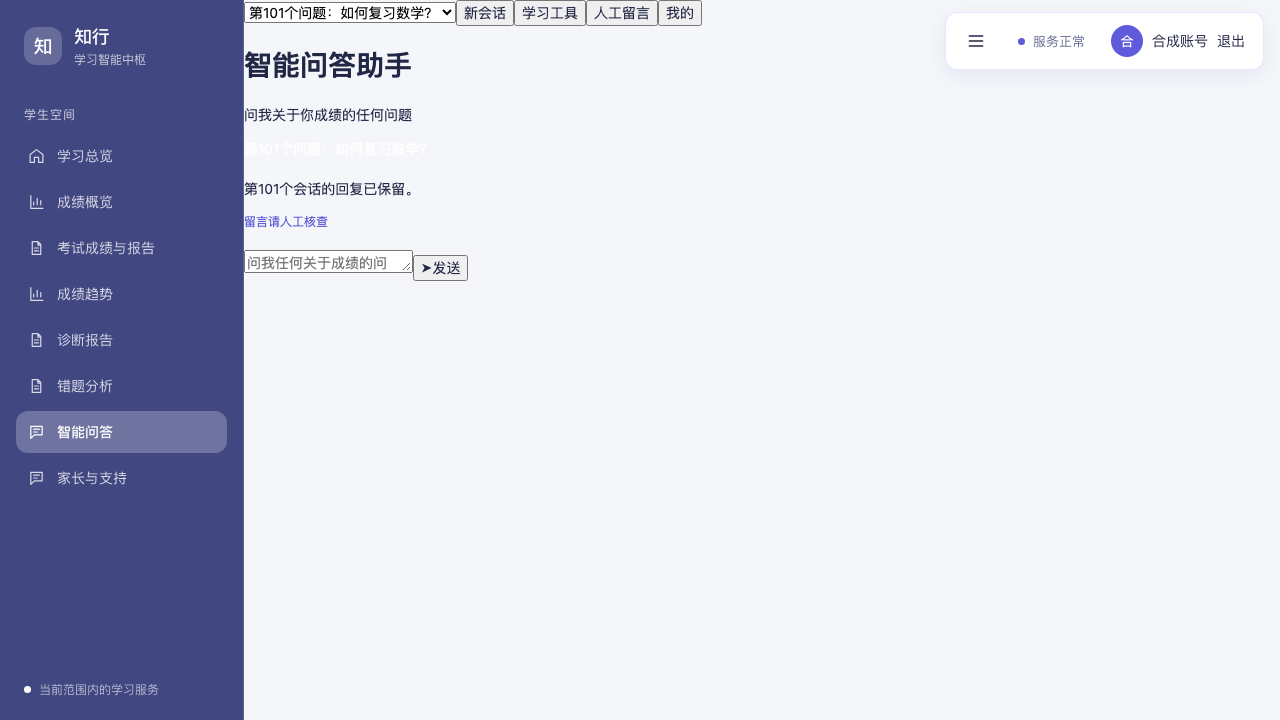
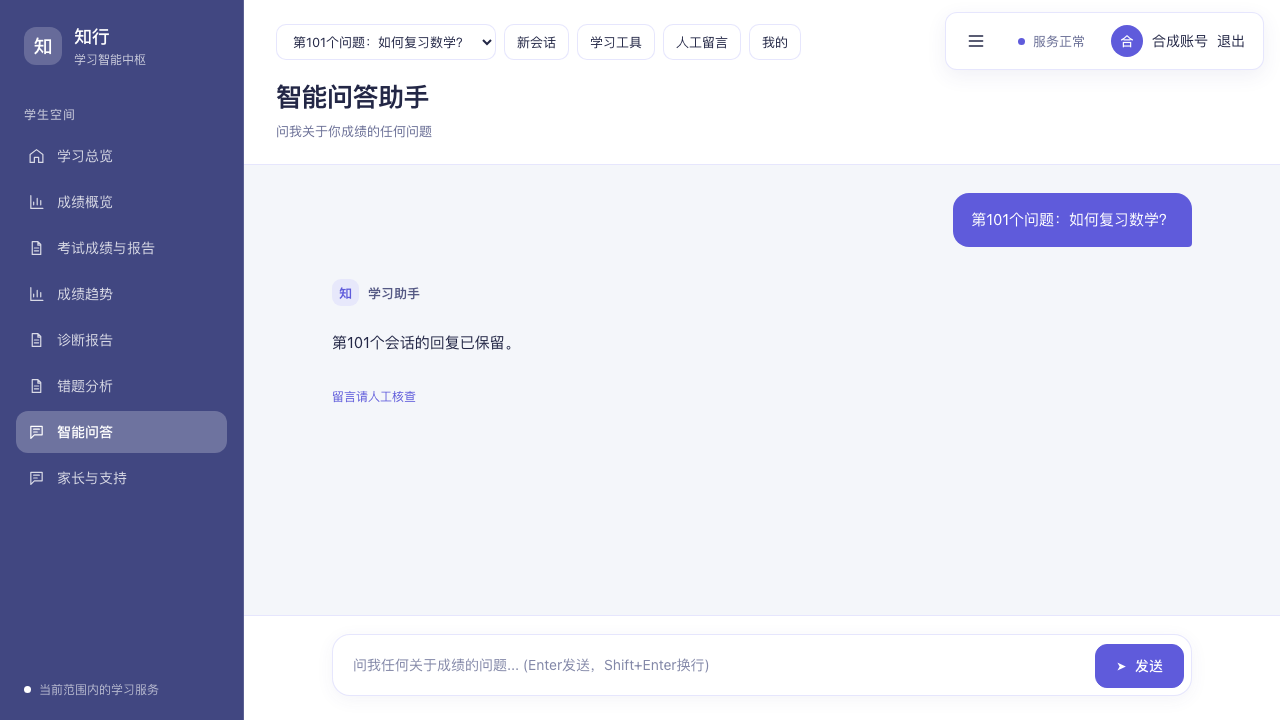
fix(web): ship an independent chat theme and verify production layouts

diff --git a/tests/ui/workflow-gaps.spec.ts b/tests/ui/workflow-gaps.spec.ts
@@ -28,14 +28,17 @@ test('the 101st conversation remains visible after state refresh and page reload
   await page.goto('/chat')
   const frame = page.frameLocator('iframe[title="智能问答助手"]')
   await expect(frame.getByLabel('选择会话').locator('option')).toHaveCount(101)
+  await expect(frame.locator('.chat-container')).toHaveCSS('display', 'flex')
   await frame.getByLabel('输入问题').fill('第101个问题：如何复习数学？')
   await frame.getByLabel('发送问题').click()
   await expect(frame.getByText('第101个会话的回复已保留。')).toBeVisible()
   await expect(frame.getByLabel('选择会话').locator('option').nth(1)).toContainText('第101个问题')
   await page.reload()
+  await expect(frame.getByLabel('选择会话').locator('option')).toHaveCount(101)
+  await expect(frame.locator('.chat-container')).toHaveCSS('display', 'flex')
   await frame.getByLabel('选择会话').selectOption('session-101')
   await expect(frame.getByText('第101个会话的回复已保留。')).toBeVisible()
-  await page.screenshot({ path: test.info().outputPath('conversation-101.png'), fullPage: true })
+  await page.screenshot({ path: test.info().outputPath('conversation-101.png'), fullPage: true, animations: 'disabled' })
 })
 
 test('pending question scores show earned points and an explanation instead of an empty mistake page', async ({ page }) => {
@@ -50,9 +53,10 @@ test('pending question scores show earned points and an explanation instead of a
   await expect(page.locator('tbody tr')).toHaveCount(2)
   await expect(page.locator('tbody tr').first()).toContainText('3 / 待补满分')
   await expect(page.getByText('待计算', { exact: true })).toBeVisible()
+  await page.screenshot({ path: test.info().outputPath('pending-question-score.png'), fullPage: true, animations: 'disabled' })
   await page.getByRole('button', { name: '查看原题 / 加入复盘' }).first().click()
   await expect(page.getByRole('dialog')).toContainText('得分事实仍可查看')
-  await page.screenshot({ path: test.info().outputPath('pending-question-score.png'), fullPage: true })
+  await page.screenshot({ path: test.info().outputPath('pending-question-detail.png'), fullPage: true, animations: 'disabled' })
 })
 
 test('teachers can claim and reply to answer tickets from the shared handoff page', async ({ page }) => {
@@ -77,5 +81,39 @@ test('teachers can claim and reply to answer tickets from the shared handoff pag
   await page.getByRole('button', { name: '发送回复', exact: true }).click()
   await expect(page.getByRole('log')).toContainText('明天课间到办公室核对学习安排。')
   await expect(page.getByRole('log')).toBeVisible()
-  await page.screenshot({ path: test.info().outputPath('teacher-answer-ticket.png'), fullPage: true })
+  await page.screenshot({ path: test.info().outputPath('teacher-answer-ticket.png'), fullPage: true, animations: 'disabled' })
 })
+
+for (const viewport of [{ width: 1280, height: 800 }, { width: 390, height: 844 }]) {
+  test(`chat owns its theme and keeps messages and composer readable at ${viewport.width}px`, async ({ page }) => {
+    await page.setViewportSize(viewport)
+    await identity(page, 'STUDENT')
+    const question = '函数题总是没有思路，应该怎么复习？'
+    const answer = '可以先把复习分成三步：\n\n1. 回顾函数的定义域、单调性和图像，先判断题目在考什么。\n2. 每个知识点挑两道典型题，写清楚第一步为什么这样做。\n3. 把做错的题按原因归类，隔两天再独立做一遍。\n\n你也可以发来一道具体题目，我们一起梳理思路。'
+    await page.route('**/api/v1/answer-workbench/mini/state', route => route.fulfill({ json: {
+      identity: { id: 'workflow-student', role: 'student', userId: 'workflow-user', name: '测试学生', school: '测试学校', roles: ['学生'], stages: ['高中'], status: '正常' }, exams: [], reports: [], tickets: [], audit: [],
+      sessions: [{ id: 'visual-session', owner: 'student:workflow-student', title: '数学复习 · 函数专题', messages: [
+        { id: 'visual-q', role: 'user', text: question, at: '2026-10-20 09:30:00', sources: [] },
+        { id: 'visual-a', role: 'assistant', text: answer, at: '2026-10-20 09:30:02', sources: [] },
+      ] }],
+    } }))
+    await page.goto('/chat')
+    const frame = page.frameLocator('iframe[title="智能问答助手"]')
+    await frame.getByLabel('选择会话').selectOption('visual-session')
+    await expect(frame.locator('#answer-desktop-theme')).toHaveCount(1)
+    await expect(frame.locator('.input-box__container')).toHaveCSS('display', 'flex')
+    await expect(frame.locator('.message--user .message__text')).toHaveCSS('background-color', 'rgb(95, 91, 219)')
+    await expect(frame.locator('.message--assistant .message__text')).toHaveCSS('color', 'rgb(35, 39, 70)')
+    await expect(frame.locator('.message--assistant')).toHaveCSS('opacity', '1')
+    await expect(frame.locator('.web-answer-label')).toContainText('学习助手')
+    const layout = await frame.locator('body').evaluate(() => ({
+      width: innerWidth, height: innerHeight, scrollWidth: document.documentElement.scrollWidth,
+      composer: document.querySelector('#composer')!.getBoundingClientRect().bottom,
+      send: document.querySelector('#sendQuestion')!.getBoundingClientRect().right,
+    }))
+    expect(layout.scrollWidth).toBeLessThanOrEqual(layout.width + 1)
+    expect(layout.composer).toBeLessThanOrEqual(layout.height + 1)
+    expect(layout.send).toBeLessThanOrEqual(layout.width)
+    await page.screenshot({ path: test.info().outputPath(`chat-${viewport.width}.png`), fullPage: true, animations: 'disabled' })
+  })
+}

diff --git a/apps/web/public/answer-workbench/web.css b/apps/web/public/answer-workbench/web.css
@@ -6,3 +6,37 @@ html,body{height:100%;margin:0}body{font-family:var(--font-cosmosoracle,-apple-s
 .sheet-cover{align-items:center;justify-content:center}.sheet{max-width:780px;width:90%;border-radius:18px;max-height:85vh}.web-content .empty{font-size:14px}.web-content .feedback-target{background:var(--color-wash,#f3f2fb);border-color:var(--line);font-size:13px}#toast.toast{background:#303450ee;font-size:13px}
 @media(max-width:850px){.web-chat>.chat-header{padding:60px 20px 16px}.web-chat .chat-header__toolbar{gap:6px}.web-chat .chat-header__sessions{max-width:180px}.web-content{padding:20px}.web-chat.is-empty{padding-left:16px;padding-right:16px}}
 @media(max-width:650px){.web-chat>.chat-header{padding:82px 12px 12px}.web-chat .chat-header__action,.web-chat .chat-header__sessions{padding:7px 10px;font-size:12px}.web-chat .chat-header__sessions{max-width:150px}.web-chat.is-empty{padding-bottom:32px}.web-chat .empty-state__title{font-size:24px}.web-content{padding:16px}.web-content .actions .btn{flex:1}.web-chat .message__content{max-width:96%}.web-content .filter-row{gap:6px}.web-content .content{min-width:0}.web-chat .input-box{padding:12px}.web-chat.is-empty .input-box{padding:0}.web-chat .metric-table{font-size:12px}}
+
+/* Desktop chat is a complete surface, including its first paint before the bridge is ready. */
+:root{--color-canvas:#f4f6fa;--color-ink:#232746;--color-surface:#fff;--color-muted:#6a6f96;--color-faint:#8388a8;--color-hairline:rgba(99,102,241,.16);--color-accent:#5f5bdb;--color-accent-soft:#e7e8fb;--radius-cards:18px;--radius-pill:9999px;--spacing-20:20px;--spacing-24:24px}
+.web-chat{display:flex;flex-direction:column;min-height:0;background:#fff}
+.web-chat>.chat-header{padding:24px 340px 22px 32px;background:#fff}
+.web-chat .chat-header__toolbar{display:flex;align-items:center;gap:8px;margin-bottom:18px}
+.web-chat .chat-header__action,.web-chat .chat-header__sessions{min-height:36px;padding:7px 12px;border:1px solid var(--line);border-radius:10px;background:#fff;color:var(--ink);font-size:13px}
+.web-chat .chat-header__title{font-size:26px;font-weight:600;line-height:1.4;letter-spacing:-.5px}
+.web-chat .chat-header__subtitle{font-size:13px;line-height:1.7;color:var(--muted)}
+.web-chat>.screen{min-height:0;padding-top:28px;padding-bottom:28px}
+.web-chat .message{animation:none;opacity:1;margin-bottom:28px}
+.web-chat .message__text{font-size:15px;line-height:1.85;opacity:1}
+.web-chat .message--user .message__text{padding:13px 18px;background:#5f5bdb;color:#fff;border-radius:16px 16px 4px 16px}
+.web-chat .message--assistant .message__text{color:#232746;padding:0;background:transparent}
+.web-answer-label{display:flex;align-items:center;gap:9px;margin:0 0 13px;font-size:13px;font-weight:600;color:#555984}
+.web-answer-label>span{display:grid;place-items:center;width:27px;height:27px;border-radius:9px;background:#e7e8fb;color:#5f5bdb;font-size:13px}
+.web-chat .message-tools{display:flex;align-items:center;gap:14px;padding-top:8px;color:#8388a8}
+.web-chat .message-tools button{border:0;background:none;padding:3px 0;color:#5f5bdb}
+.web-chat>#composer{flex:none;padding:18px 28px 24px;border-top:1px solid var(--line);background:#fff}
+.web-chat .input-box{padding:0;background:transparent}
+.web-chat .input-box__container{max-width:860px;border-radius:18px;min-height:62px;box-shadow:0 4px 18px rgba(63,66,140,.06)}
+.web-chat .input-box__textarea{font-size:14px;line-height:1.7;min-width:0}
+.web-chat .input-box__send{border-radius:12px}
+.web-chat.is-empty{padding:0;background:#fff}
+.web-chat.is-empty>.chat-header{padding-bottom:0}
+.web-chat.is-empty>.screen{flex:1;display:flex;align-items:center;justify-content:center;overflow:auto;padding:100px 24px 24px}
+.web-chat.is-empty .message-list__empty{height:auto;width:100%;max-width:780px}
+.web-chat.is-empty .empty-state__title{font-size:30px;font-weight:500;line-height:1.5;letter-spacing:-.5px}
+.web-chat.is-empty .empty-state__text{font-size:14px;color:#6a6f96}
+.web-chat .web-suggestions{gap:10px;margin-top:24px}
+.web-chat .choice-chip{padding:10px 16px;border-radius:12px;font-size:13px}
+@media(max-width:850px){.web-chat>.chat-header{padding:74px 24px 18px}.web-chat .chat-header__toolbar{margin-bottom:14px}.web-chat .chat-header__title{font-size:24px}.web-chat.is-empty>.screen{padding-top:130px}}
+@media(max-width:650px){.web-chat>.chat-header{padding:78px 16px 16px}.web-chat .chat-header__toolbar{gap:6px;row-gap:8px}.web-chat .chat-header__sessions{max-width:180px}.web-chat .chat-header__action,.web-chat .chat-header__sessions{font-size:12px;padding:6px 9px;min-height:34px}.web-chat .chat-header__title{font-size:22px}.web-chat>.screen{padding:20px 16px}.web-chat>#composer{padding:14px 12px max(16px,env(safe-area-inset-bottom))}.web-chat .input-box__container{padding:6px 6px 6px 12px;border-radius:16px}.web-chat .input-box__send{height:42px;padding:0 14px}.web-chat .message__content{max-width:100%}.web-chat .message--assistant>.message__content{width:100%}.web-chat .message--user .message__content{max-width:92%}.web-chat .message__text{font-size:14px}.web-chat.is-empty>.screen{padding:152px 18px 24px}.web-chat.is-empty .empty-state__title{font-size:26px}.web-chat.is-empty .empty-state{padding:18px 0}}
+@media(max-width:650px){.web-chat .chat-header__toolbar{display:grid;grid-template-columns:repeat(4,minmax(0,1fr));gap:8px}.web-chat .chat-header__sessions{grid-column:1/-1;width:100%;max-width:none}.web-chat .chat-header__action{padding:6px 4px}}

diff --git a/apps/web/src/features/education/AnswerWorkbench.tsx b/apps/web/src/features/education/AnswerWorkbench.tsx
@@ -6,10 +6,14 @@ import { getAuthSignal, getAuthScope, getRefreshToken, getToken, getUserInfo, se
 import { getCurrentUserApi, loginApi, logoutApi } from '../../services/auth'
 import { AppShell } from '../../layouts/AppShell'
 import AnswerText from '../../components/AnswerText'
-import '../../components/ChatContainer.css'
-import '../../components/MessageList.css'
-import '../../components/MessageBubble.css'
-import '../../components/InputBox.css'
+import appTheme from '../../index.css?inline'
+import chatTheme from '../../components/ChatContainer.css?inline'
+import listTheme from '../../components/MessageList.css?inline'
+import bubbleTheme from '../../components/MessageBubble.css?inline'
+import inputTheme from '../../components/InputBox.css?inline'
+import mathTheme from 'katex/dist/katex.min.css?inline'
+
+const desktopTheme = [appTheme, chatTheme, listTheme, bubbleTheme, inputTheme, mathTheme].join('\n')
 
 /** Isolate the supplied prototype's styles while retaining the application's auth lifecycle. */
 export function AnswerWorkbenchPage({ mode = 'web' }: { mode?: 'admin' | 'mini' | 'web' }) {
@@ -70,13 +74,13 @@ export function AnswerWorkbenchPage({ mode = 'web' }: { mode?: 'admin' | 'mini' 
     if (mode !== 'web') return
     const document = frame.current?.contentDocument
     if (!document) return
-    // Use the original desktop chat's compiled theme, typography and composer styles.
-    const before = document.head.firstChild
-    window.document.querySelectorAll<HTMLLinkElement>('link[rel="stylesheet"]').forEach(link => {
-      const copy = document.createElement('link')
-      copy.rel = 'stylesheet'; copy.href = link.href
-      document.head.insertBefore(copy, before)
-    })
+    // The iframe owns its complete theme in both development and production.
+    // It must not depend on which style/link tags happen to exist in the host.
+    const theme = document.createElement('style')
+    theme.id = 'answer-desktop-theme'
+    theme.textContent = desktopTheme
+    document.getElementById(theme.id)?.remove()
+    document.head.insertBefore(theme, document.head.firstChild)
   }
   const content = <><iframe ref={frame} onLoad={onLoad} title={mode === 'admin' ? '提示词及人工' : mode === 'web' ? '智能问答助手' : '学科智能问答小程序'} src={`/answer-workbench/${mode}.html?v=web-20261019`} style={{ width: '100%', height: mode === 'mini' ? '100dvh' : '100%', minHeight: 0, flex: '1 1 0', border: 0, display: 'block' }} />{mode === 'web' && answers.map(answer => createPortal(<AnswerText content={answer.text} />, answer.node, answer.id))}</>
   if (mode === 'admin') return <AppShell>{content}</AppShell>

diff --git a/apps/web/public/answer-workbench/web-view.js b/apps/web/public/answer-workbench/web-view.js
@@ -31,7 +31,7 @@ function renderHome() {
 function messageHTML(m) {
   if(m.role==='user')return `<article class="message message--user"><div class="message__content"><div class="message__text">${esc(m.text)}</div><div class="message__meta">${esc(m.at?.slice(11,16)||'')}</div></div></article>`;
   const table=m.table?`<table class="metric-table"><thead><tr><th>科目</th><th>分数 / 满分</th><th>范围</th></tr></thead><tbody>${m.table.map(r=>`<tr><td>${esc(r.subject)}</td><td>${r.score} / ${r.max}</td><td>${r.count>1?r.count+'人平均':'本人'}</td></tr>`).join('')}</tbody></table>${m.table.map(r=>`<div class="chart"><span>${esc(r.subject)}</span><i><i style="width:${Math.max(0,Math.min(100,r.score/r.max*100))}%"></i></i><strong>${r.score}</strong></div>`).join('')}`:'';
-  return `<article class="message message--assistant"><div class="message__content"><div class="message__text" data-web-message="${esc(m.id)}" data-web-text="${esc(m.text)}">${esc(m.text)}</div>${table}${m.sources?.length?`<div class="message__sources"><span>回答依据</span>${m.sources.map(sourceButton).join('')}</div>`:''}${(m.choices||[]).map(q=>`<button class="choice-chip" data-choice="${esc(q)}">${esc(q)}</button>`).join('')}<div class="message-tools">${!m.fallback?`<button onclick="openTicketCompose('${m.id}','answerFeedback')">留言请人工核查</button>`:`<button onclick="openTicketCompose('${m.id}')">提交人工留言</button>`}<span>${esc(m.at?.slice(11,16)||'')}</span></div></div></article>`;
+  return `<article class="message message--assistant"><div class="message__content"><div class="web-answer-label"><span>知</span>学习助手</div><div class="message__text" data-web-message="${esc(m.id)}" data-web-text="${esc(m.text)}">${esc(m.text)}</div>${table}${m.sources?.length?`<div class="message__sources"><span>回答依据</span>${m.sources.map(sourceButton).join('')}</div>`:''}${(m.choices||[]).map(q=>`<button class="choice-chip" data-choice="${esc(q)}">${esc(q)}</button>`).join('')}<div class="message-tools">${!m.fallback?`<button onclick="openTicketCompose('${m.id}','answerFeedback')">留言请人工核查</button>`:`<button onclick="openTicketCompose('${m.id}')">提交人工留言</button>`}<span>${esc(m.at?.slice(11,16)||'')}</span></div></div></article>`;
 }
 function renderComposer() {
   const placeholder = window.matchMedia('(max-width:650px)').matches ? '问我任何关于成绩的问题…' : '问我任何关于成绩的问题... (Enter发送，Shift+Enter换行)';

diff --git a/tests/ui/playwright.production.config.ts b/tests/ui/playwright.production.config.ts
@@ -1,0 +1,16 @@
+import { defineConfig } from '@playwright/test'
+import base from './playwright.config'
+
+export default defineConfig({
+  ...base,
+  testMatch: 'workflow-gaps.spec.ts',
+  outputDir: '../../test-results/workflow-production',
+  workers: 1,
+  use: { ...base.use, baseURL: 'http://127.0.0.1:5196' },
+  webServer: {
+    ...base.webServer,
+    command: 'node ../../apps/web/node_modules/vite/bin/vite.js preview --config vite.config.mts --host 127.0.0.1 --port 5196 --strictPort',
+    url: 'http://127.0.0.1:5196',
+    reuseExistingServer: false,
+  },
+})

diff --git a/docs/06-QA与验收/问答与教学求助修复-20261020/验收记录.md b/docs/06-QA与验收/问答与教学求助修复-20261020/验收记录.md
@@ -13,14 +13,26 @@
 
 ## 验证
 
-- 后端 SQLite 完整套件：326 通过、8 项 PostgreSQL 专用测试跳过；随后增加并通过真实“先教师、再考试、再升级换班”回归。
+- 后端 SQLite 最终完整套件：327 通过、8 项 PostgreSQL 专用测试跳过；包含真实“先教师、再考试、再升级换班”回归。
 - 新增与受影响后端定向回归：会话超过 100 条、重试幂等、教师先导入的两种建档顺序、生产式关闭 autoflush、结束及过期任课关系、小题满分导入和补录、越界满分、考试版本冲突、求助队列计数、跨班及跨校隔离、成绩来源权限与撤销。
 - 前端单元测试：9 个文件、31 项通过。
-- 前端 ESLint、TypeScript 与生产构建通过。
-- Chromium 专项测试：3 项通过，覆盖第 101 个会话刷新和重选、待补满分页面和原题详情、老师领取并回复问答人工留言。
+- 前端 ESLint、TypeScript 与生产构建通过。GitHub CI 首次完整运行：SQLite 327 通过、8 跳过，PostgreSQL 335 全部通过。
+- Chromium 专项测试：开发构建 5 项、实际生产构建 5 项全部通过，覆盖第 101 个会话刷新和重选、待补满分页面和原题详情、老师领取并回复问答人工留言，以及 1280px / 390px 的独立样式、消息对比度、输入框定位和横向溢出。
 - 截图均使用合成身份与合成数据；浏览器测试拦截 API，用于验证交互和展示，真实后端读写由 HTTP/SQL 回归覆盖。
 
+## 问答页面样式修复
+
+原先问答 iframe 在加载时复制父页 stylesheet link，开发环境样式由 style 标签提供时会丢失基础样式。现将完整主题、消息、输入框和数学排版 CSS 在构建时打包并直接注入 iframe，去掉对父页样式标签的依赖。浏览器测试不再注入替代样式。
+
+消息取消透明度入场动画，明确区分用户和助手，标题、导航、消息阅读列和底部输入框重新排版；手机导航使用完整下拉行和四等宽按钮。
+
+生产构建浏览器测试使用 `tests/ui/playwright.production.config.ts`，从 `apps/web/dist` 启动预览。截图使用合成数据，不代表线上学生记录。
+
 ## 页面证据
+
+![生产构建桌面问答](chat-1280.png)
+
+![生产构建手机问答](chat-390.png)
 
 ![第101个会话](conversation-101.png)
 
